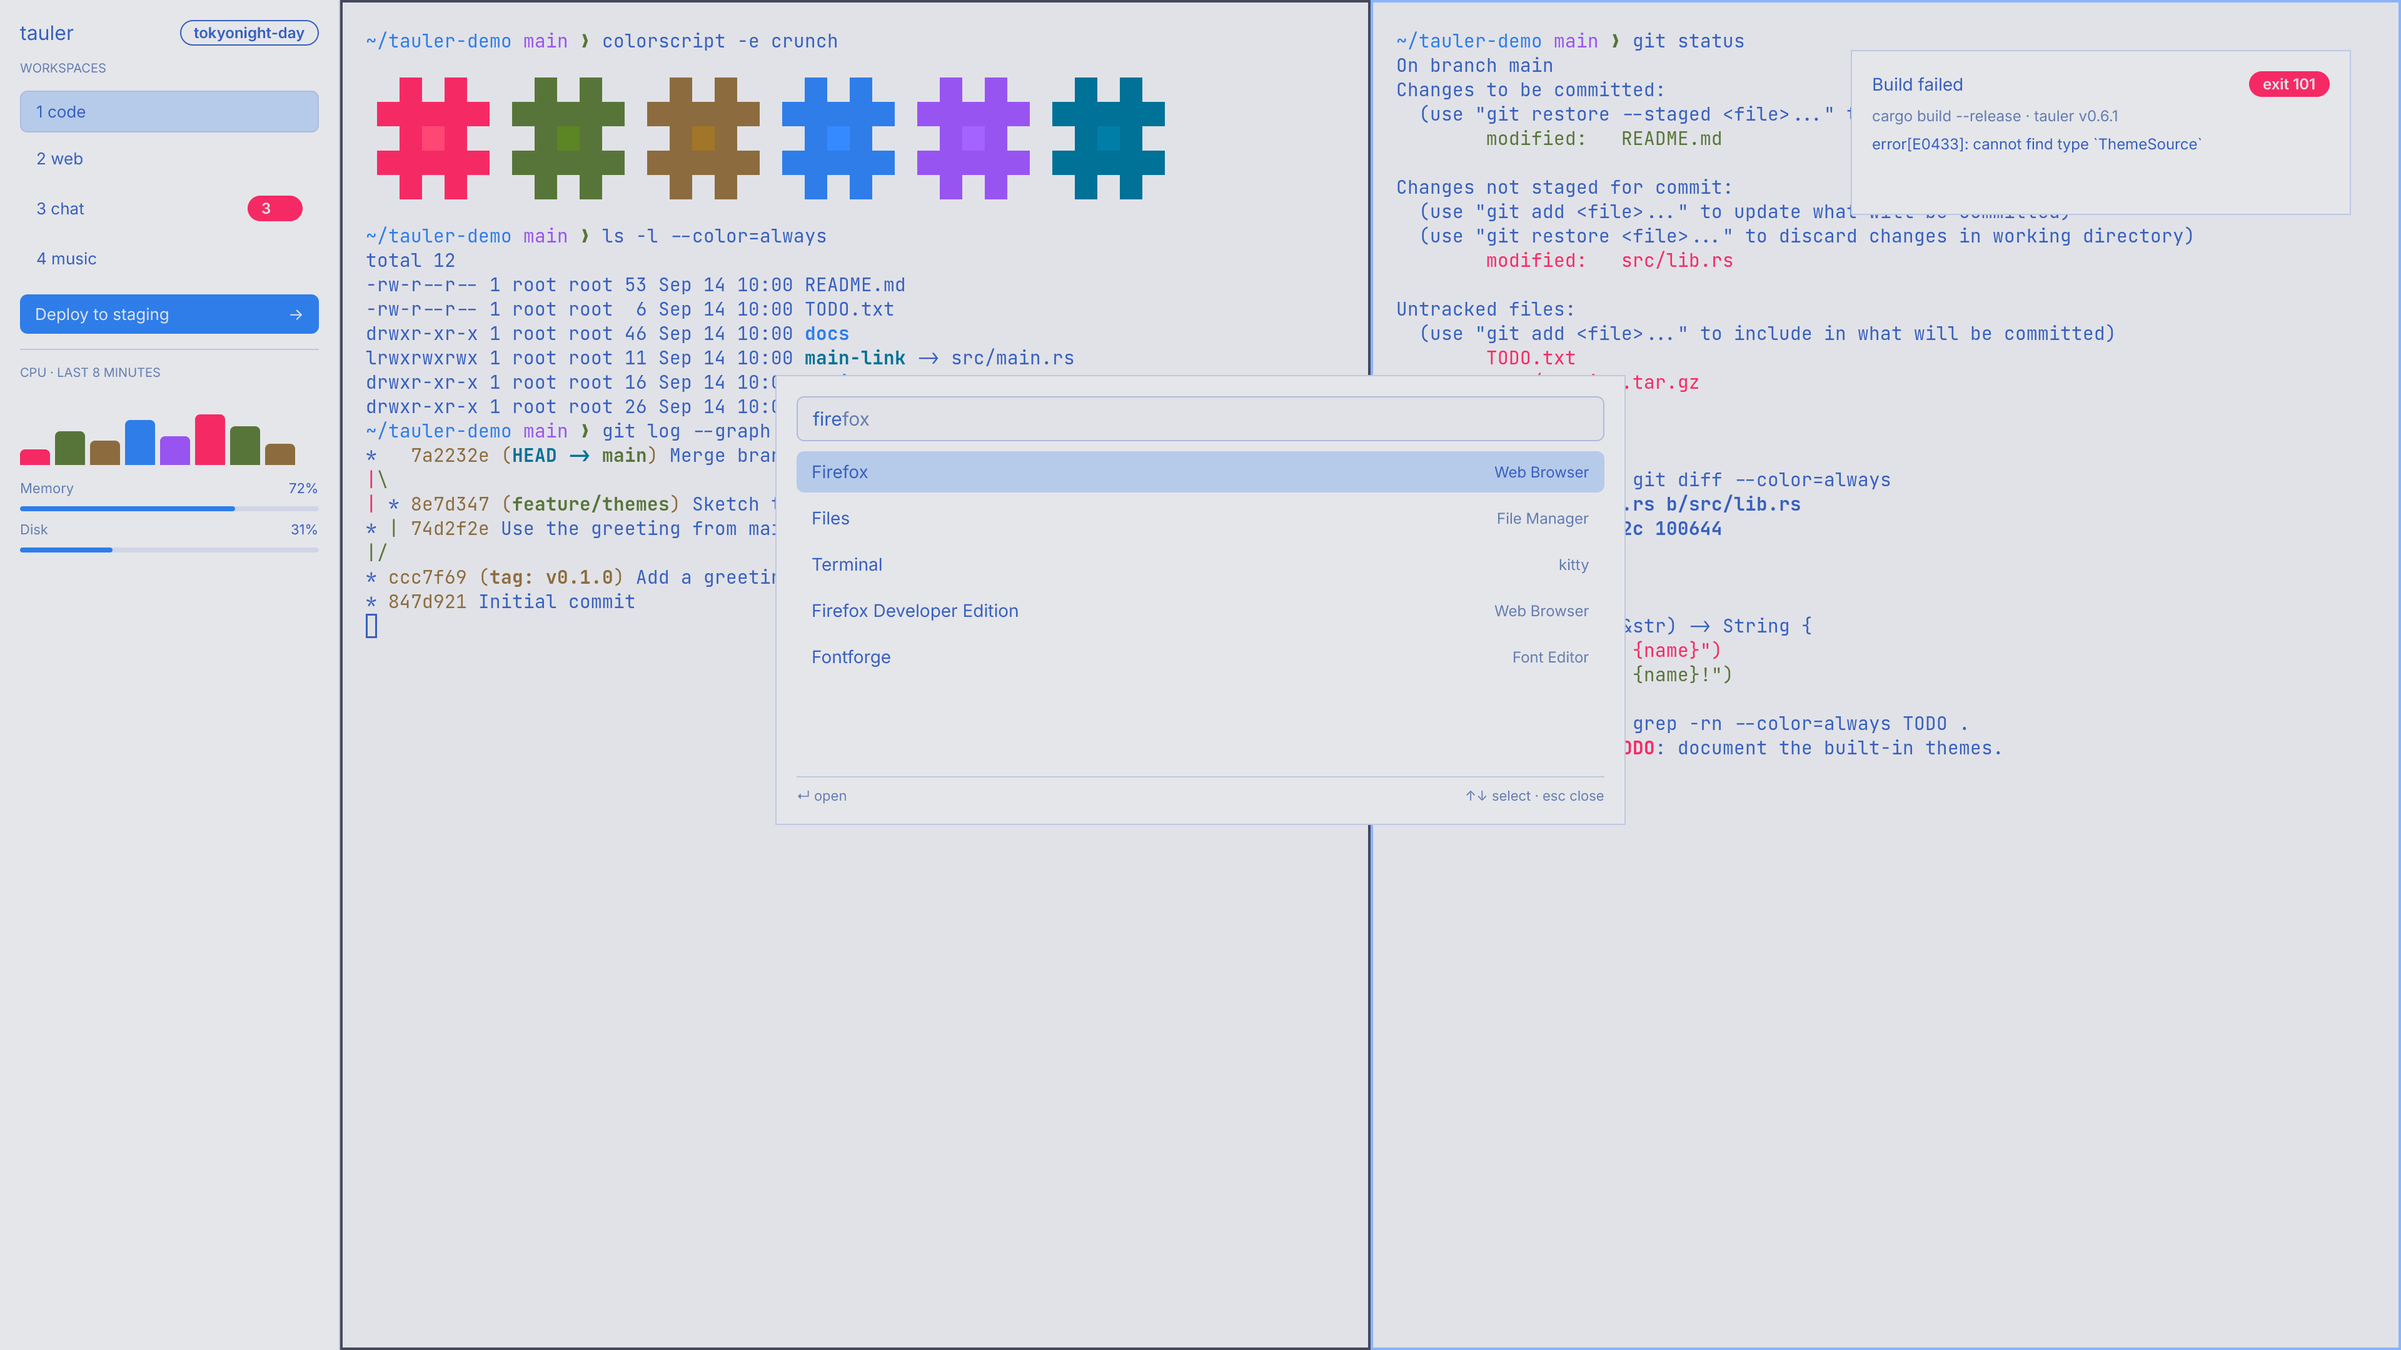
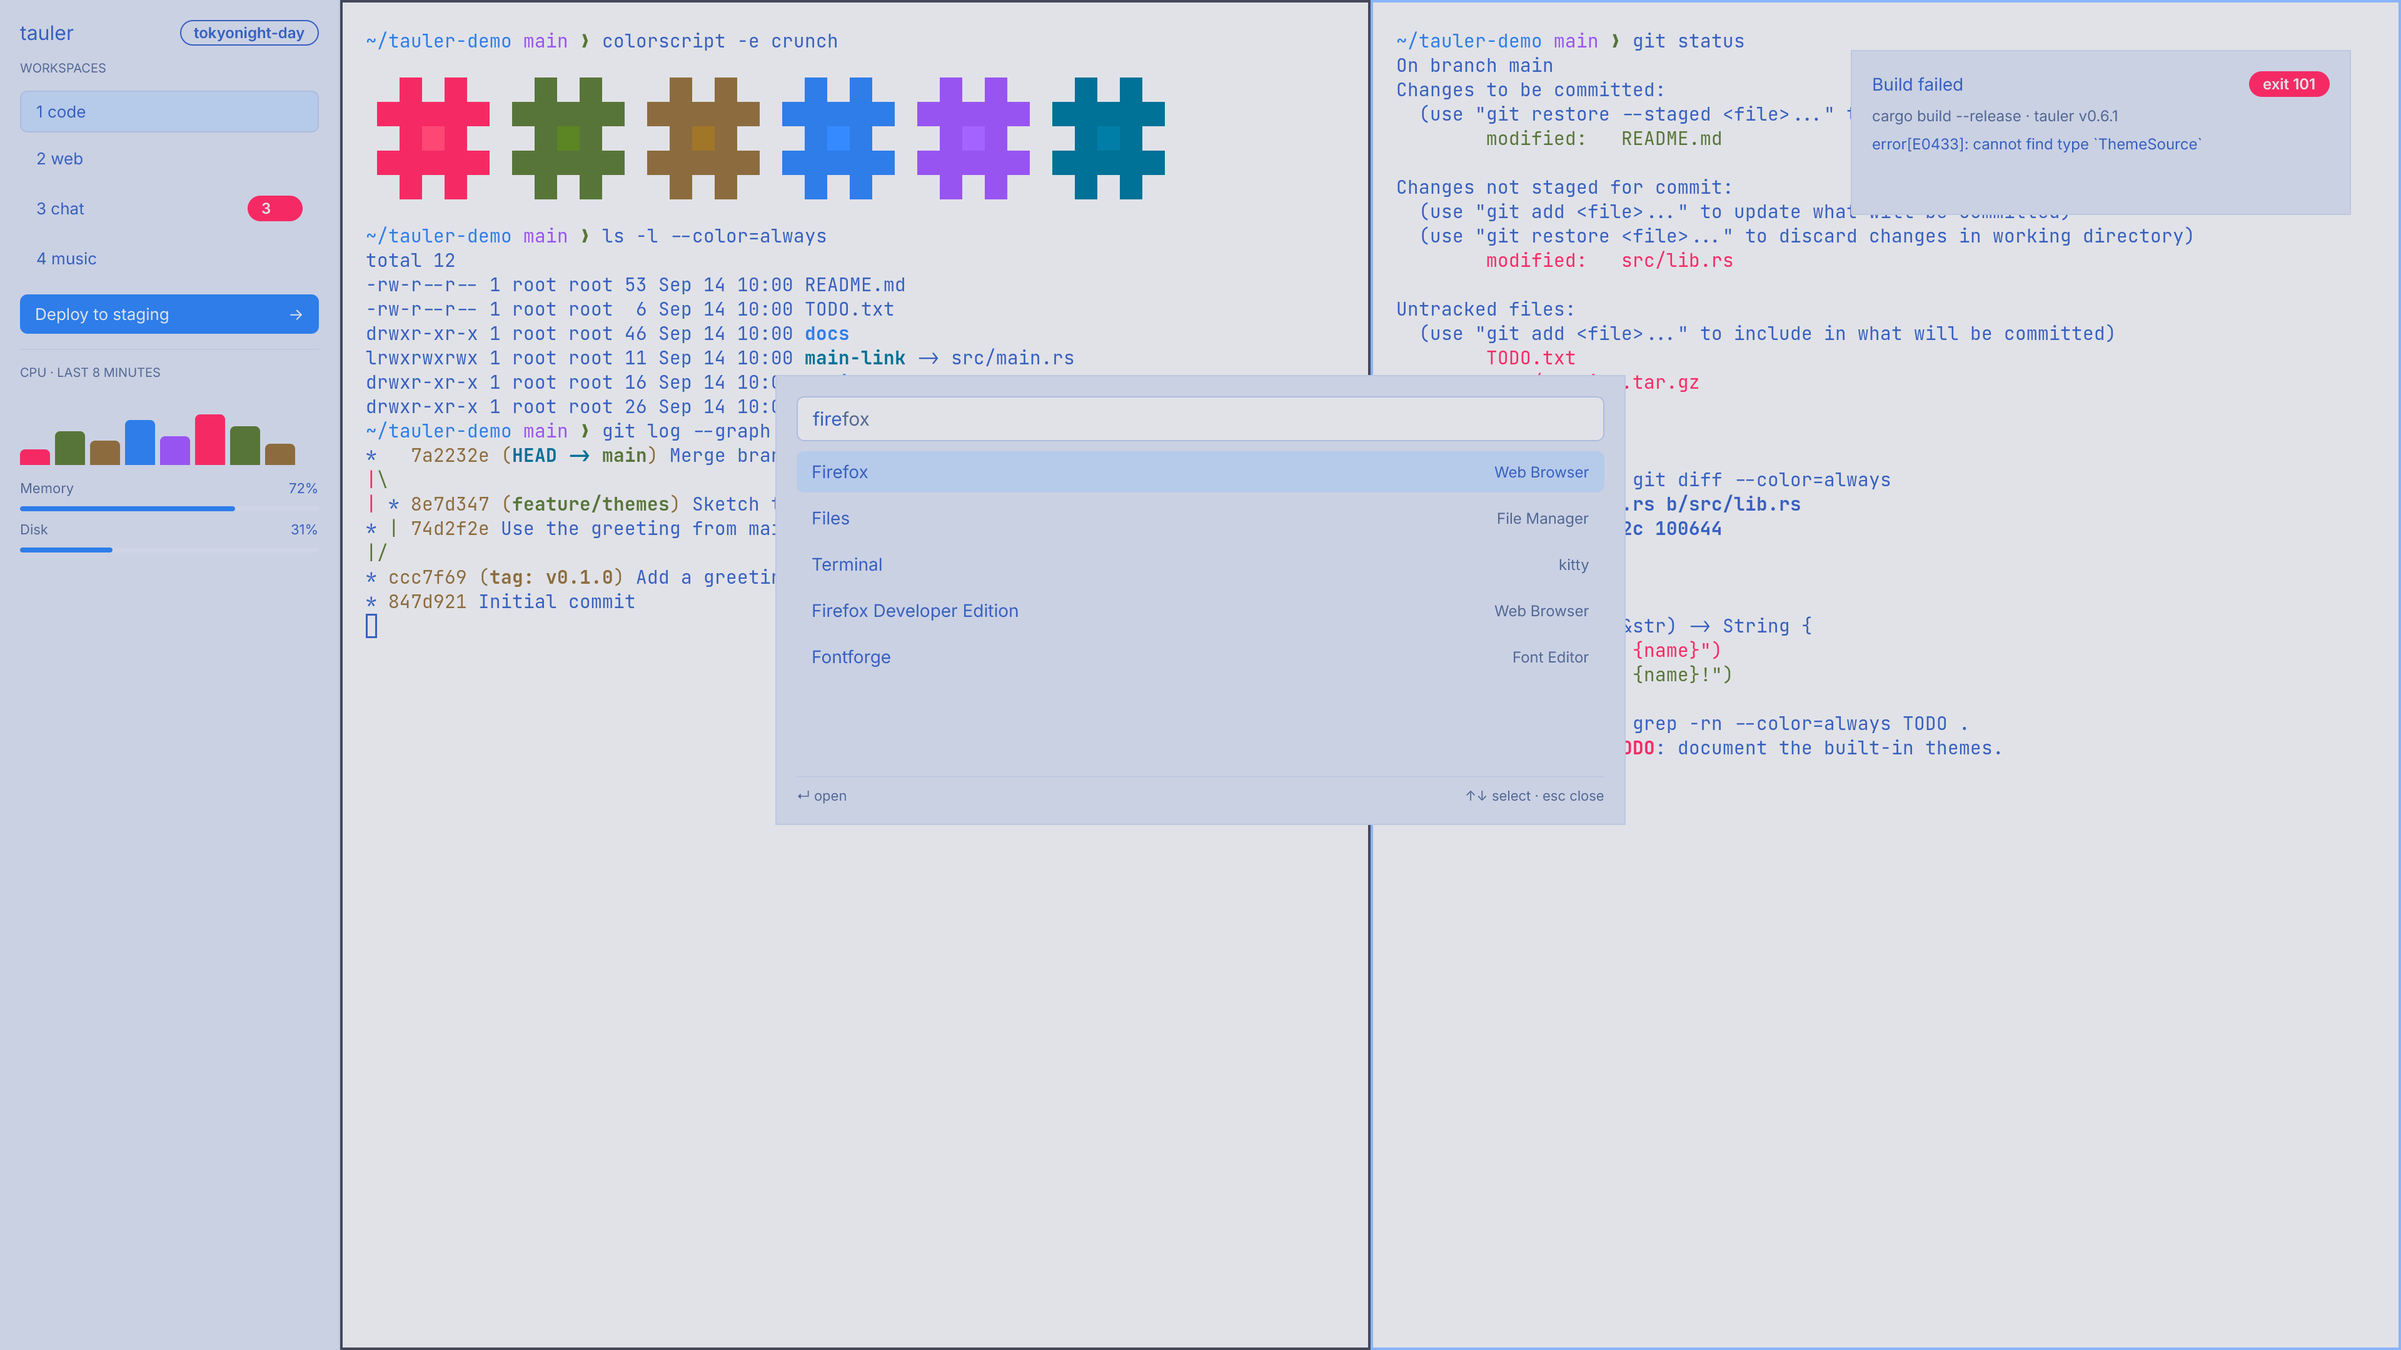
.

Changed region(s): [[0.0, 0.0, 0.1562, 1.0], [0.3125, 0.2792, 0.6875, 0.6204], [0.75, 0.031, 1.0, 0.1861]]

diff --git a/tauler-core/examples/build_themes/derive.rs b/tauler-core/examples/build_themes/derive.rs
@@ -139,6 +139,59 @@ pub fn is_dark(bg: &str) -> bool {
     ratio(bg, "#000000") < ratio(bg, "#ffffff")
 }
 
+/// How far a panel must sit from the page to read as a panel (about one just-noticeable
+/// difference).
+pub const MIN_SURFACE_SEPARATION: f64 = 0.02;
+
+/// The colour of `card`, `popover` and `sidebar`: the page faded away from the foreground — toward
+/// black on a dark page, toward white on a light one — unless that leaves it too close to the page
+/// to see. A page that is already near white (or black) cannot fade further, and then the panel
+/// steps toward the foreground instead, as base16 and zenbones.nvim do. Measured on 168 distinct
+/// seeds, the first rule alone left 48 of them, all light, with a panel indistinguishable from the
+/// page.
+fn panel_colour(bg: &str, fg: &str) -> String {
+    let away = mix(bg, if is_dark(bg) { "#000000" } else { "#ffffff" }, 87.0);
+    if distance(&away, bg) >= MIN_SURFACE_SEPARATION {
+        away
+    } else {
+        mix(bg, fg, 87.0)
+    }
+}
+
+/// How many accent slots may hold a hue far from their name before a scheme is refused. One or
+/// two are a scheme's own choice (a brown "yellow", a teal "green"); three or more were, in every
+/// case measured, a palette in another order (oxocarbon) or hues guessed from highlight groups
+/// (miasma, deus).
+pub const MAX_HUE_MISSES: usize = 2;
+
+/// The accent hues whose terminal slot holds a colour of a different hue, as `(name, hue°)`.
+///
+/// SPEC: `ansi[1..=6]` are red, green, yellow, blue, magenta and cyan in that order. A scheme that
+/// fills the slots in some other order (oxocarbon puts blue in the red slot) would make
+/// `destructive` blue; this names the slots that are off by more than 60° so the generator can say
+/// so. Slots with almost no chroma carry no hue and are never reported.
+pub fn ansi_hue_misses(seed: &Seed) -> Vec<(&'static str, f32)> {
+    const EXPECTED: [(&str, f32); 6] = [
+        ("red", 29.0),
+        ("green", 142.0),
+        ("yellow", 110.0),
+        ("blue", 264.0),
+        ("magenta", 328.0),
+        ("cyan", 195.0),
+    ];
+    EXPECTED
+        .iter()
+        .enumerate()
+        .filter_map(|(i, (name, want))| {
+            let [_, chroma, hue, _] = parse(&seed.ansi[1 + i])
+                .to_alpha_color::<color::Oklch>()
+                .components;
+            let off = (hue - want).abs();
+            (chroma > 0.03 && off.min(360.0 - off) > 60.0).then_some((*name, hue))
+        })
+        .collect()
+}
+
 /// The smallest Oklab distance two accents may end up at before they read as one colour.
 pub const MIN_SEPARATION: f64 = 0.05;
 
@@ -242,7 +295,7 @@ pub fn derive(seed: &Seed, primary: &str) -> BTreeMap<String, String> {
         accents[i - 1].clone()
     };
 
-    let panel = mix(bg, if is_dark(bg) { "#000000" } else { "#ffffff" }, 87.0);
+    let panel = panel_colour(bg, fg);
     let elevated = mix(bg, fg, 90.0);
     let border = mix(bg, fg, 80.0);
     let input = mix(bg, fg, 85.0);
@@ -357,8 +410,52 @@ mod tests {
         ]
     }
 
+    /// A pastel light scheme: its accents are all under 3:1 on its background.
+    fn pastel() -> Seed {
+        Seed {
+            bg: "#fdf6e3".into(),
+            fg: "#5c6a72".into(),
+            ansi: [
+                "#5c6a72", "#f85552", "#8da101", "#dfa000", "#3a94c5", "#df69ba", "#35a77c",
+                "#dfddc8", "#829181", "#f85552", "#8da101", "#dfa000", "#3a94c5", "#df69ba",
+                "#35a77c", "#f4f0d9",
+            ]
+            .map(String::from),
+        }
+    }
+
+    /// tokyonight-day: its bright accents are 2.5:1 but its normal ones are not.
+    fn tokyonight_day() -> Seed {
+        Seed {
+            bg: "#e1e2e7".into(),
+            fg: "#3760bf".into(),
+            ansi: [
+                "#b4b5b9", "#f52a65", "#587539", "#8c6c3e", "#2e7de9", "#9854f1", "#007197",
+                "#6172b0", "#a1a6c5", "#ff4774", "#5c8524", "#a27629", "#358aff", "#a463ff",
+                "#007ea8", "#3760bf",
+            ]
+            .map(String::from),
+        }
+    }
+
+    fn plain(bg: &str, fg: &str) -> Seed {
+        let mut ansi = [
+            "#000000", "#cc3333", "#33aa33", "#ccaa33", "#3355cc", "#aa33aa", "#33aaaa", "#cccccc",
+            "#555555", "#ff5555", "#55ff55", "#ffff55", "#5577ff", "#ff55ff", "#55ffff", "#ffffff",
+        ]
+        .map(String::from);
+        ansi[0] = bg.to_string();
+        Seed {
+            bg: bg.into(),
+            fg: fg.into(),
+            ansi,
+        }
+    }
+
     fn all_seeds() -> Vec<(&'static str, Seed)> {
         let mut v = seeds();
+        v.push(("pure white", plain("#ffffff", "#24292f")));
+        v.push(("pure black", plain("#000000", "#e6e6e6")));
         v.push(("pastel", pastel()));
         v.push(("tokyonight-day", tokyonight_day()));
         v
@@ -398,44 +495,6 @@ mod tests {
         let t = derive(&seed, "green");
         assert_eq!(t["primary"], "#9fe044");
         assert_eq!(t["sidebar-primary"], "#9fe044");
-    }
-
-    #[test]
-    fn panels_fade_away_from_the_foreground_in_both_modes() {
-        let mut all = seeds();
-        let (_, light) = all.remove(1);
-        let (_, dark) = all.remove(0);
-        // Dark: the card is darker than the background. Light: it is lighter.
-        assert!(ratio(&derive(&dark, "blue")["card"], "#000000") < ratio(&dark.bg, "#000000"));
-        assert!(ratio(&derive(&light, "blue")["card"], "#ffffff") < ratio(&light.bg, "#ffffff"));
-    }
-
-    /// A pastel light scheme: its accents are all under 3:1 on its background.
-    fn pastel() -> Seed {
-        Seed {
-            bg: "#fdf6e3".into(),
-            fg: "#5c6a72".into(),
-            ansi: [
-                "#5c6a72", "#f85552", "#8da101", "#dfa000", "#3a94c5", "#df69ba", "#35a77c",
-                "#dfddc8", "#829181", "#f85552", "#8da101", "#dfa000", "#3a94c5", "#df69ba",
-                "#35a77c", "#f4f0d9",
-            ]
-            .map(String::from),
-        }
-    }
-
-    /// tokyonight-day: its bright accents are 2.5:1 but its normal ones are not.
-    fn tokyonight_day() -> Seed {
-        Seed {
-            bg: "#e1e2e7".into(),
-            fg: "#3760bf".into(),
-            ansi: [
-                "#b4b5b9", "#f52a65", "#587539", "#8c6c3e", "#2e7de9", "#9854f1", "#007197",
-                "#6172b0", "#a1a6c5", "#ff4774", "#5c8524", "#a27629", "#358aff", "#a463ff",
-                "#007ea8", "#3760bf",
-            ]
-            .map(String::from),
-        }
     }
 
     #[test]
@@ -489,6 +548,35 @@ mod tests {
         let seed = tokyonight_day();
         let (donor, ui) = ui_accents(&seed);
         assert_eq!(donor, ui);
+    }
+
+    #[test]
+    fn a_panel_is_visibly_different_from_the_page_even_on_pure_white_and_black() {
+        for (name, seed) in all_seeds() {
+            let t = derive(&seed, "blue");
+            let d = distance(&t["card"], &t["background"]);
+            assert!(
+                d >= MIN_SURFACE_SEPARATION - 1e-9,
+                "{name}: card is {d:.3} from the page"
+            );
+        }
+    }
+
+    #[test]
+    fn a_panel_still_fades_away_from_the_foreground_when_it_can() {
+        // A mid-dark page has room to go darker, so it keeps doing so.
+        let t = derive(&seeds().remove(0).1, "blue");
+        assert!(ratio(&t["card"], "#000000") < ratio(&t["background"], "#000000"));
+    }
+
+    #[test]
+    fn a_terminal_palette_in_the_wrong_hue_order_is_named() {
+        let mut seed = plain("#ffffff", "#24292f");
+        // oxocarbon's order: its "red" slot holds a blue.
+        seed.ansi[1] = "#0f62fe".into();
+        let misses = ansi_hue_misses(&seed);
+        assert!(misses.iter().any(|(n, _)| *n == "red"), "{misses:?}");
+        assert!(ansi_hue_misses(&plain("#ffffff", "#24292f")).is_empty());
     }
 
     #[test]

diff --git a/tauler-core/examples/stress_themes.rs b/tauler-core/examples/stress_themes.rs
@@ -15,7 +15,8 @@
 mod derive;
 
 use derive::{
-    accent_separation, derive, distance, is_dark, token_order, ui_accents, Seed, MIN_SEPARATION,
+    accent_separation, ansi_hue_misses, derive, distance, is_dark, token_order, ui_accents, Seed,
+    MIN_SEPARATION,
 };
 use serde::Deserialize;
 use std::collections::BTreeMap;
@@ -102,6 +103,23 @@ fn run_one(dump_lua: &PathBuf, e: &Entry) -> Result<String, String> {
     let raw_fg_ratio = contrast::ratio(&seed.fg, &seed.bg).unwrap_or(0.0);
     let fg_nudged = tokens["foreground"] != seed.fg;
 
+    // The derived theme itself, for looking at.
+    if let Ok(dir) = std::env::var("STRESS_OUT") {
+        let name = format!(
+            "{}__{}__{}",
+            e.repo.replace('/', "_"),
+            e.colorscheme,
+            dump.mode
+        );
+        let _ = std::fs::write(
+            std::path::Path::new(&dir).join(format!("{name}.yaml")),
+            format!(
+                "name: {name}\nmode: {}\ncolors:\n{yaml_colors}",
+                if is_dark(&seed.bg) { "dark" } else { "light" }
+            ),
+        );
+    }
+
     // How far each surface and line sits from the page: a panel that is the page's own colour is
     // an invisible panel.
     let sep = |token: &str| distance(&tokens[token], &tokens["background"]);
@@ -118,10 +136,16 @@ fn run_one(dump_lua: &PathBuf, e: &Entry) -> Result<String, String> {
         .min_by(|a, b| a.1.total_cmp(&b.1))
         .unwrap();
 
+    let misses = ansi_hue_misses(&seed)
+        .iter()
+        .map(|(n, _)| *n)
+        .collect::<Vec<_>>()
+        .join("+");
+
     // A key to spot two entries that are the same scheme.
     let key = format!("{}|{}|{}", seed.bg, seed.fg, seed.ansi.join(","));
     Ok(format!(
-        "ok\t{}\t{}\t{}\t{}\t{}\t{}\t{:.2}\t{}\t{}\t{:.3}\t{:.3}\t{}\t{}\t{}:{:.3}\t{:.3}",
+        "ok\t{}\t{}\t{}\t{}\t{}\t{}\t{:.2}\t{}\t{}\t{:.3}\t{:.3}\t{}\t{}\t{}:{:.3}\t{:.3}\t{}",
         dump.mode,
         u8::from(mode_agrees),
         u8::from(dump.fallback),
@@ -137,7 +161,12 @@ fn run_one(dump_lua: &PathBuf, e: &Entry) -> Result<String, String> {
         key,
         weakest,
         weakest_sep,
-        sep("card")
+        sep("card"),
+        if misses.is_empty() {
+            "-".to_string()
+        } else {
+            misses
+        }
     ))
 }
 
@@ -150,7 +179,7 @@ fn main() {
             .expect("parse manifest");
     let dump_lua = PathBuf::from(env!("CARGO_MANIFEST_DIR")).join("src/themes/generate/dump.lua");
 
-    println!("repo\tcolorscheme\tbg_hint\tresult\tmode\tmode_agrees\tfallback\tmissing\tfloor_fail\tbg\tfg_ratio\tfg_nudged\taccents_nudged\tdonor_sep\tui_sep\tguard_ok\tseed_key\tweakest_surface\tcard_sep\tlicense");
+    println!("repo\tcolorscheme\tbg_hint\tresult\tmode\tmode_agrees\tfallback\tmissing\tfloor_fail\tbg\tfg_ratio\tfg_nudged\taccents_nudged\tdonor_sep\tui_sep\tguard_ok\tseed_key\tweakest_surface\tcard_sep\thue_misses\tlicense");
     let queue = Arc::new(Mutex::new(entries.into_iter().collect::<Vec<_>>()));
     let lines: Arc<Mutex<BTreeMap<usize, String>>> = Arc::new(Mutex::new(BTreeMap::new()));
     let total = queue.lock().unwrap().len();
@@ -189,7 +218,7 @@ fn main() {
     for h in handles {
         h.join().unwrap();
     }
-    for (_, l) in lines.lock().unwrap().iter() {
+    for l in lines.lock().unwrap().values() {
         println!("{l}");
     }
 }

diff --git a/tauler-core/examples/build_themes/main.rs b/tauler-core/examples/build_themes/main.rs
@@ -108,10 +108,10 @@ fn seed(dump_lua: &Path, repo_dir: &Path, w: &Workload) -> (Seed, ThemeMode) {
         .env("CS", &w.colorscheme)
         .env("BGMODE", &w.background));
     let dump: Dump = serde_json::from_str(&json).expect("dump.lua prints JSON");
-    let mode = match dump.mode.as_str() {
-        "dark" => ThemeMode::Dark,
-        "light" => ThemeMode::Light,
-        other => panic!("{}: unknown &background `{other}`", w.name),
+    let seed_mode = if dump.mode == "light" {
+        ThemeMode::Light
+    } else {
+        ThemeMode::Dark
     };
     let seed = Seed {
         bg: dump.bg,
@@ -121,20 +121,39 @@ fn seed(dump_lua: &Path, repo_dir: &Path, w: &Workload) -> (Seed, ThemeMode) {
             .try_into()
             .unwrap_or_else(|v: Vec<String>| panic!("expected 16 ANSI colours, got {}", v.len())),
     };
-    // The label and the colours must agree, or the theme would be shown on the wrong background.
-    assert_eq!(
-        derive::is_dark(&seed.bg),
-        mode == ThemeMode::Dark,
-        "{}: &background is `{}` but its background {} is {}",
-        w.name,
-        dump.mode,
-        seed.bg,
-        if derive::is_dark(&seed.bg) {
-            "dark"
-        } else {
-            "light"
-        }
+    // The background decides the label. `&background` is only a hint: a scheme that ignores it
+    // (41 of the 151 colour schemes tried) leaves it at whatever the hint said.
+    let mode = if derive::is_dark(&seed.bg) {
+        ThemeMode::Dark
+    } else {
+        ThemeMode::Light
+    };
+    if mode != seed_mode {
+        eprintln!(
+            "note: {}: &background is `{}` but its background {} is {}; using the background",
+            w.name,
+            dump.mode,
+            seed.bg,
+            if mode == ThemeMode::Dark {
+                "dark"
+            } else {
+                "light"
+            }
+        );
+    }
+    let misses = derive::ansi_hue_misses(&seed);
+    assert!(
+        misses.len() <= derive::MAX_HUE_MISSES,
+        "{}: its terminal colours are not in ANSI hue order ({misses:?}); `destructive` and the \
+         chart colours would come out the wrong hue — drop the scheme",
+        w.name
     );
+    if !misses.is_empty() {
+        eprintln!(
+            "note: {}: terminal slots far from their hue: {misses:?}",
+            w.name
+        );
+    }
     (seed, mode)
 }
 

diff --git a/tauler-e2e/tests/scenarios.rs b/tauler-e2e/tests/scenarios.rs
@@ -245,16 +245,16 @@ fn builtin_theme_by_name_draws_the_dark_palette() -> Result<()> {
 #[test]
 #[ignore = "needs Docker and `just e2e-image`"]
 fn builtin_theme_by_name_draws_the_light_palette() -> Result<()> {
-    // tokyonight-day: `background` is #e1e2e7; `sidebar`, `popover` #e5e6ea
-    // (derived: the background faded toward white).
+    // tokyonight-day: `background` is #e1e2e7; `sidebar` and `popover` are #cad1e3 (derived: the
+    // background is too close to white to fade, so the panel steps toward the foreground).
     builtin_theme_scenario(
         "builtin-theme-light",
         "builtin-theme-by-name-draws-the-light-palette",
         "tokyonight-day",
         Palette {
             background: [0xe1, 0xe2, 0xe7],
-            sidebar: [0xe5, 0xe6, 0xea],
-            popover: [0xe5, 0xe6, 0xea],
+            sidebar: [0xca, 0xd1, 0xe3],
+            popover: [0xca, 0xd1, 0xe3],
         },
     )
 }
